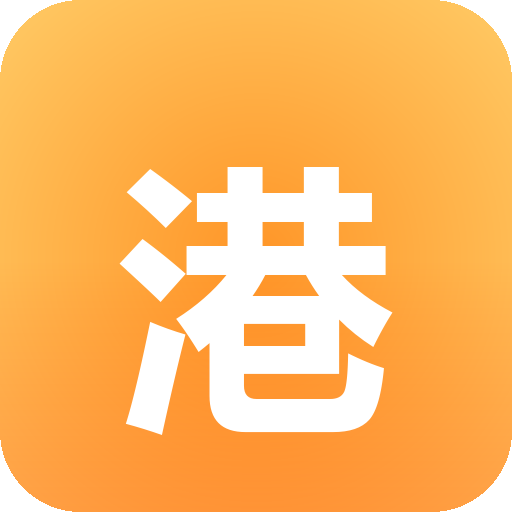
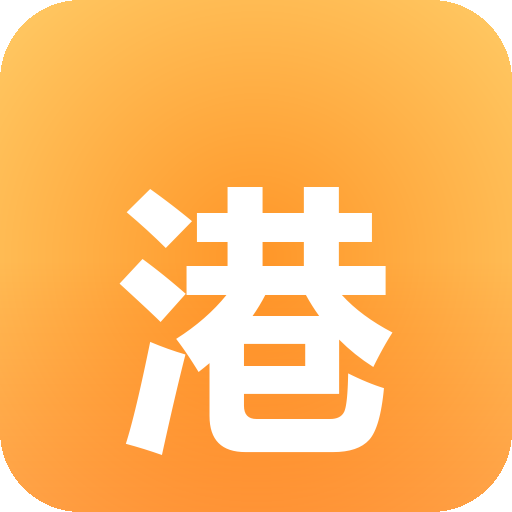
fix: 统计间距加大至28px + 主屏图标港字居中

Changed region(s): [[0.2188, 0.3125, 0.7812, 0.9062]]

diff --git a/index.html b/index.html
@@ -53,7 +53,7 @@ body{
 .card-sub{font-size:12px;color:var(--t2)}
 
 /* ── Stats Grid ── */
-.stats-grid{display:grid;grid-template-columns:1fr 1fr;gap:10px;margin-bottom:20px}
+.stats-grid{display:grid;grid-template-columns:1fr 1fr;gap:10px;margin-bottom:28px}
 .stat-item{
   background:var(--card);border-radius:var(--r);
   padding:16px 12px;text-align:center;box-shadow:var(--sh);
@@ -454,7 +454,7 @@ body.no-scroll{overflow:hidden;position:fixed;width:100%}
 
 <script>
 // 版本号——改代码后 +1，主屏幕图标自动刷新
-const APP_VER='5';
+const APP_VER='6';
 (function(){
   var v=localStorage.getItem('_app_ver');
   if(v!==APP_VER){localStorage.setItem('_app_ver',APP_VER);location.reload(true);return;}

diff --git a/gen_icon_v1.py b/gen_icon_v1.py
@@ -49,7 +49,7 @@ font = load_font(280)
 bbox = font.getbbox("港")
 tw, th = bbox[2] - bbox[0], bbox[3] - bbox[1]
 x = (SIZE - tw) // 2
-y = (SIZE - th) // 2 - 20
+y = (SIZE - th) // 2
 draw.text((x, y), "港", font=font, fill=(255, 255, 255))
 
 path = os.path.join(OUT, "01-sunrise.png")
